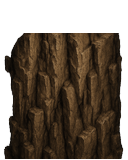
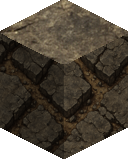
Seamless iso-block walls (replace billboard wall)
The AI wall art was a flat billboard: repeated per tile with iso overlap it
read as "stacked stickers." Replaced with a procedurally-composed ISOMETRIC
wall block (genart build_wall from the rock texture): a 128x64 rock cap that is
a tessellating diamond — so adjacent wall tops merge into one continuous rock
surface exactly like the floor diamonds — plus two shaded side faces dropping to
the base. Anchor (fw/2, fh-32) with the existing pass_walls draw offset makes
the caps tile seamlessly and front tiles occlude the faces behind. The sietch
now reads as a room carved into a solid rock mass. 'wall' removed from the AI
SPRITES list (now procedural, no API).

Pure art change; 10/10 tests green, dettest unchanged (b1f584f18d6549bc).

diff --git a/tools/genart.py b/tools/genart.py
@@ -55,13 +55,6 @@ SPRITES = {
                "tattered dark robes, viewed from above at an isometric angle, "
                "isolated figure on a fully transparent background, no ground, "
                "no sand, no scene",
-    "wall":    "a seamless section of a TALL CONTINUOUS rough-hewn rock cavern "
-               "wall face seen straight on, jagged natural sandstone that clearly "
-               "CONTINUES past every edge of the frame (left, right and top), NO "
-               "flat top surface, NO free-standing edges or corners, NO ground or "
-               "floor, NO cast shadow beneath it — just a solid vertical slab of "
-               "living rock filling the entire frame edge to edge so copies placed "
-               "side by side merge into one unbroken wall",
     "cistern": "an ancient stone water cistern basin, round carved rock rim, "
                "still dark water surface glinting inside, small pipes",
     "rock":    "a weathered desert rock outcrop boulder cluster, wind-carved "
@@ -447,6 +440,38 @@ def cut_diamond(tex, w, h, rng, brightness=1.0, anchor=None):
     out.paste(crop, (0, 0), diamond_mask(w, h))
     return out
 
+def build_wall(rock, fw, fh):
+    """A proper ISOMETRIC wall block, not a billboard: a rock cap that is a
+    128x64 tessellating diamond (so adjacent wall tops merge into one continuous
+    rock surface, exactly like the floor diamonds) plus two shaded side faces
+    dropping to the base. Placed per wall tile with anchor (fw/2, fh-32), the caps
+    tile seamlessly and front tiles occlude the faces behind — reads as a solid
+    carved-rock wall, not stacked stickers."""
+    rng = random.Random(11)
+    out = Image.new("RGBA", (fw, fh), (0, 0, 0, 0))
+    half = fw // 2
+    face_h = fh - 64                       # faces run from the cap down to the base
+    src = rock.resize((fw, fh)).convert("RGBA")
+    spx = src.load()
+    opx = out.load()
+    # left + right front faces, sloped to the cap's front edges, texture-shaded
+    for x in range(fw):
+        if x < half:
+            ytop = 32 + x * 32 // half     # follows the cap's lower-left edge
+            sh = 0.5                        # left face in deeper shadow
+        else:
+            ytop = 32 + (fw - 1 - x) * 32 // half  # lower-right edge
+            sh = 0.72                       # right face, half-lit
+        for k in range(face_h):
+            y = ytop + k
+            if 0 <= y < fh:
+                r, g, b, a = spx[x, (ytop + k) % fh]
+                opx[x, y] = (int(r * sh), int(g * sh), int(b * sh), 255)
+    # rock cap on top (lit), drawn last so it caps the faces cleanly
+    cap = cut_diamond(rock, fw, 64, rng, 1.08, (rock.width // 2, rock.height // 2))
+    out.paste(cap, (0, 0), cap)
+    return out
+
 def build_tiles(textures, fw, fh, frames):
     """Compose the 10-frame floor sheet from generated textures."""
     rng = random.Random(7)
@@ -510,6 +535,11 @@ def main():
     _, fw, fh, frames, _, _ = meta["ripple"]
     build_ripple(textures["tex_ripple"], fw, fh, frames).save(os.path.join(RAW, "ripple.png"))
     print(f"  ripple: {frames} rolled frames at {fw}x{fh}")
+
+    if "wall" in meta:
+        _, fw, fh, _, _, _ = meta["wall"]
+        build_wall(textures["tex_rock"], fw, fh).save(os.path.join(RAW, "wall.png"))
+        print(f"  wall: procedural iso block {fw}x{fh}")
 
     for name, builder in (("mound", build_mound), ("carryall", build_carryall)):
         if name not in meta:
